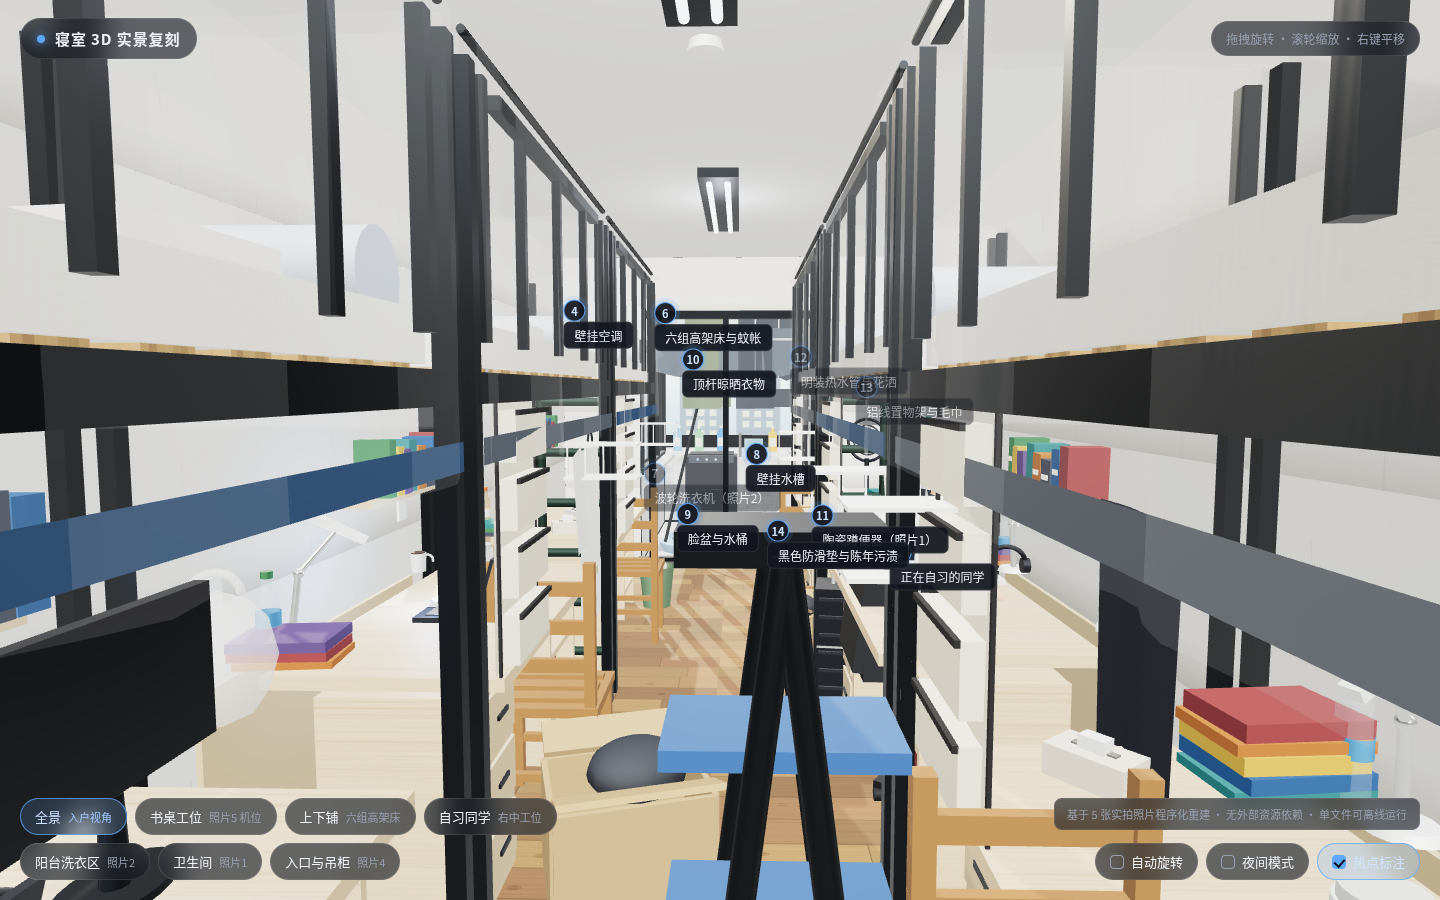
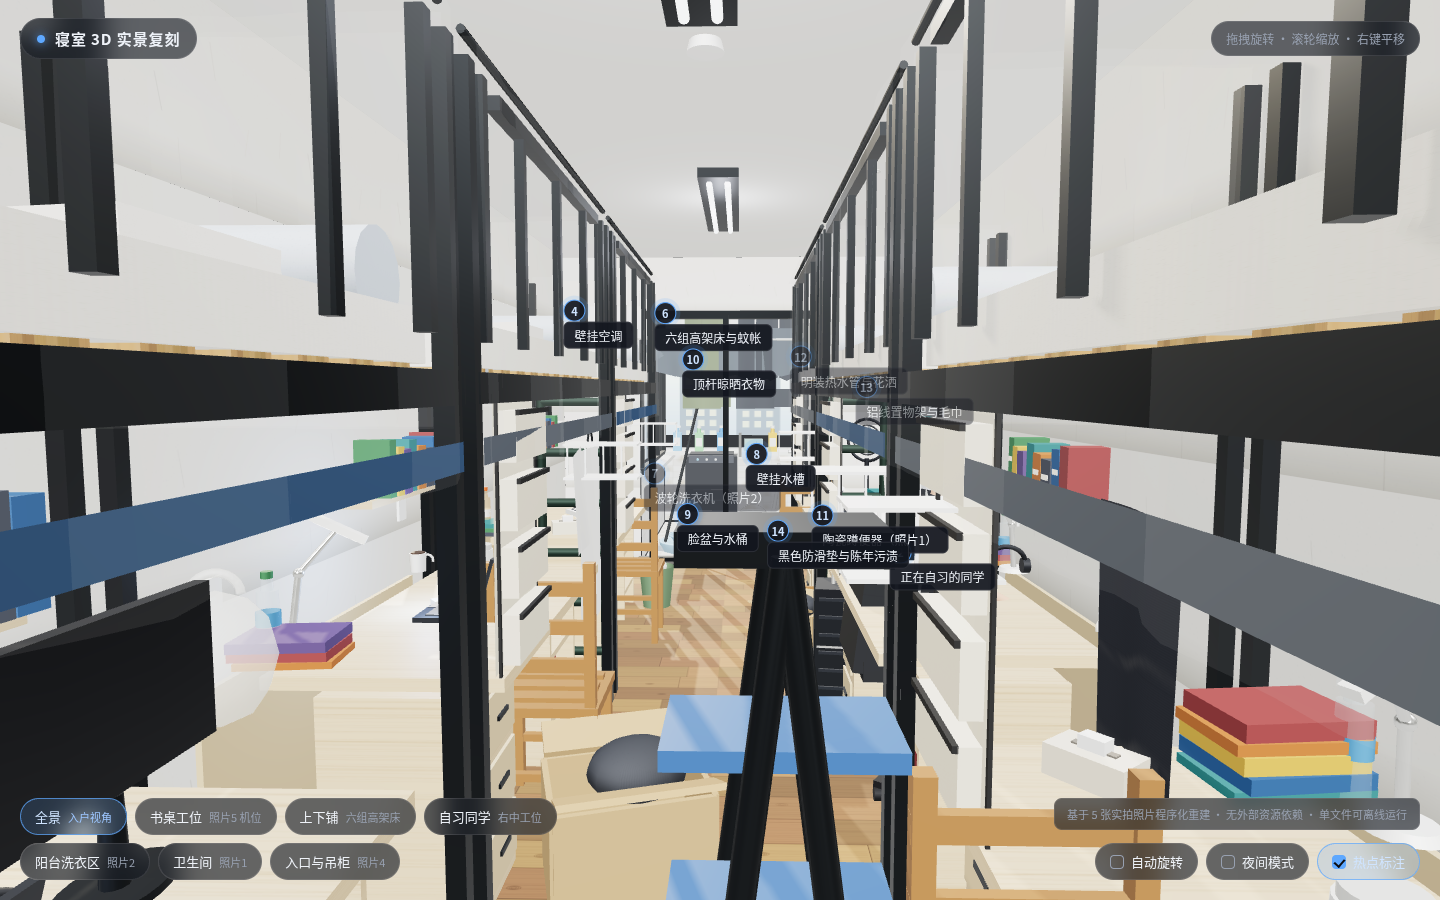
feat: 3D寝室模型 Three.js 构建

diff --git a/dorm-3d/src/main.ts b/dorm-3d/src/main.ts
@@ -41,8 +41,8 @@ function main(): void {
       desk: { pos: new THREE.Vector3(-0.15, 1.32, 3.05), target: new THREE.Vector3(-1.02, 0.95, 2.45) },
       beds: { pos: new THREE.Vector3(0.25, 1.55, 1.4), target: new THREE.Vector3(-0.1, 1.75, -1.6) },
       student: { pos: new THREE.Vector3(1.18, 1.3, 0.75), target: new THREE.Vector3(0.92, 0.85, 0.1) },
-      balcony: { pos: new THREE.Vector3(0.62, 1.55, -4.35), target: new THREE.Vector3(-0.15, 1.0, -6.05) },
-      bathroom: { pos: new THREE.Vector3(1.18, 1.5, -4.42), target: new THREE.Vector3(1.52, 0.95, -5.55) },
+      balcony: { pos: new THREE.Vector3(0.66, 1.62, -4.05), target: new THREE.Vector3(-0.18, 1.05, -6.0) },
+      bathroom: { pos: new THREE.Vector3(1.22, 1.72, -4.18), target: new THREE.Vector3(1.52, 0.5, -5.3) },
       door: { pos: new THREE.Vector3(-0.85, 1.5, 3.15), target: new THREE.Vector3(0.05, 1.25, 3.95) },
     };
     const applyView = (id: string, instant: boolean): void => {

diff --git a/dorm-3d/src/core/materials.ts b/dorm-3d/src/core/materials.ts
@@ -115,7 +115,7 @@ class MaterialLib {
   /** 蚊帐纱：半透明双面，带轻微透射感 */
   mosquitoNet(): THREE.Material {
     return this.mat('net', () => new THREE.MeshStandardMaterial({
-      color: PALETTE.netWhite, transparent: true, opacity: 0.14, roughness: 1,
+      color: PALETTE.netWhite, transparent: true, opacity: 0.09, roughness: 1,
       side: THREE.DoubleSide, depthWrite: false,
     }));
   }

diff --git a/dorm-3d/src/util/cloth.ts b/dorm-3d/src/util/cloth.ts
@@ -44,7 +44,8 @@ export function wavyPlane(
   }
   geo.computeVertexNormals();
   const m = new THREE.Mesh(geo, mat);
-  m.castShadow = true;
+  // 半透明纱/布料不投影，避免地面出现大片脏影
+  m.castShadow = !(mat as THREE.MeshStandardMaterial).transparent;
   m.receiveShadow = true;
   return m;
 }
